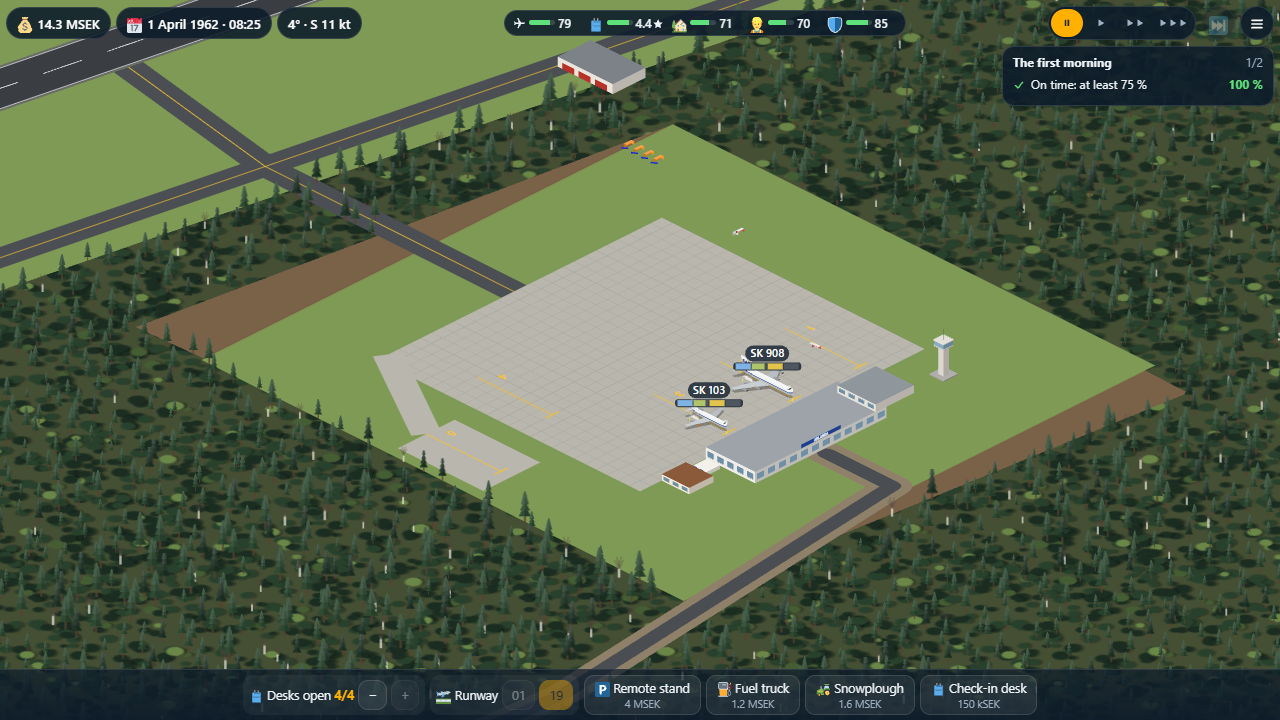
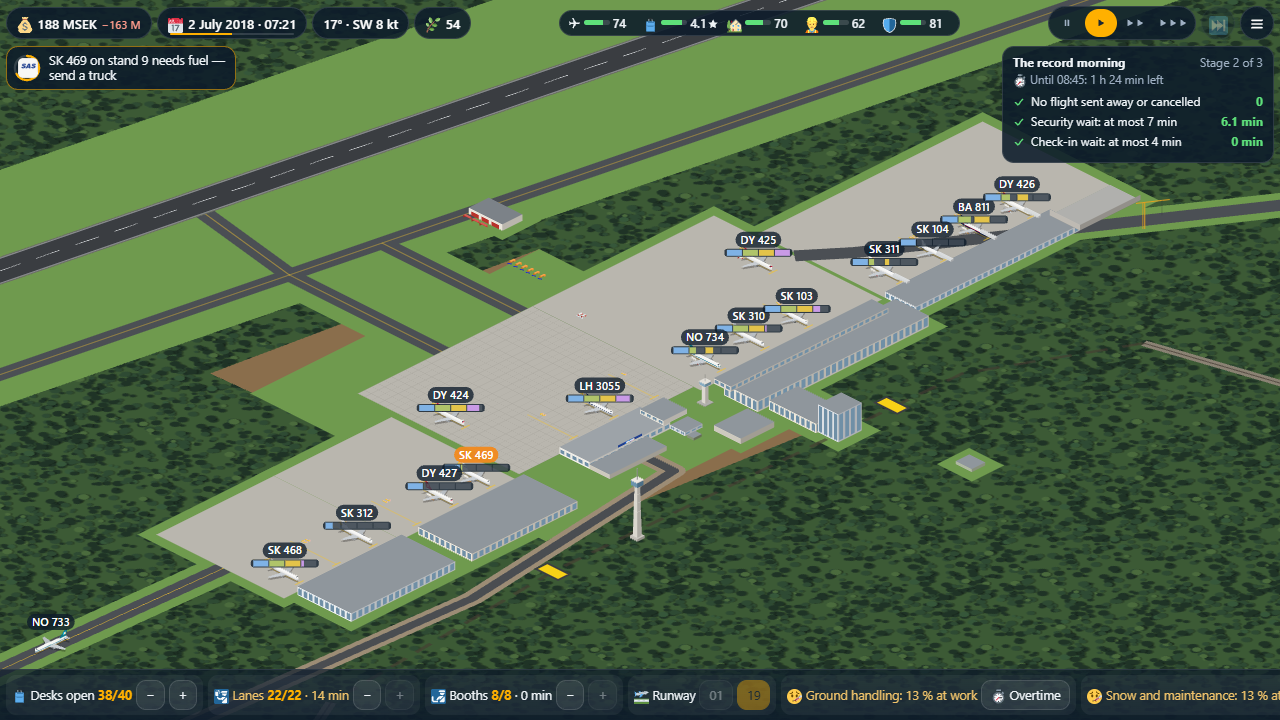
Arlanda Rising, session 7 done: the forest cleared under the later aprons, runways 2 and 3, taxiways 2 and 3, the de-icing pads, Cargo City and the solar parks; a new screenshot of the record summer of 2018

diff --git a/arlanda-rising/render/map.js b/arlanda-rising/render/map.js
@@ -51,14 +51,17 @@ const MapView = (() => {
       runway: a.runways[0] || null, runway2: a.runways.find((r) => r.id === 'r2') || null, runway3: a.runways.find((r) => r.id === 'r3') || null,
       apron: a.stands.length > 0, items, p,
       planning: !!S.plan, lights: [], standMark: view.standMark,
-      ...clearings(a, items, ready || p('site', 'apron') >= 1)
+      ...clearings(a, items, ready || p('site', 'apron') >= 1, p)
     };
   }
 
   // the ground cleared of trees round what is built outside the site's first clearing: a remote stand's pad and its
-  // way to the apron, the plots of the buildings in data/layout.js (car parks, cafés…), the link from the taxiway
+  // way to the apron, the plots of the buildings in data/layout.js (car parks, cafés…), the link from the taxiway;
+  // from the jet age on the later aprons, runways 2 and 3 with their strips, taxiways 2 and 3, the de-icing pads,
+  // Cargo City's yard and the solar parks, each from the moment its work starts
   const PAD = 14;   // m of open ground round a plot
-  function clearings(a, items, apronDone) {
+  const STRIP_HALF = 120;   // m: half the cleared strip of runways 2 and 3, as render/airport.js draws it
+  function clearings(a, items, apronDone, p) {
     const pads = [], ways = [];
     if (apronDone) {
       const T = LAYOUT.taxi, a = Ground.rwPoint(T.apronLink.s, T.offset), b = Ground.rwPoint(T.apronOut.s, T.offset);
@@ -74,10 +77,30 @@ const MapView = (() => {
       pads.push([q.x - 80 - PAD, q.y - 34 - PAD, q.x + 8 + PAD, q.y + 34 + PAD]);
       if (!st.pad) ways.push({ pts: AirportArt.remoteWay(i), d: 10 + PAD });
     });
+    const plot = (b) => pads.push([b[0] - PAD, b[1] - PAD, b[2] + PAD, b[3] + PAD]);
+    const started = (pid) => { const pr = a.projects[pid]; return !!pr && Object.keys(pr.stages).some((s) => pr.stages[s].p > 0); };
     for (const k in items) {
       const L = LAYOUT[k];
-      if (L && L.box) pads.push([L.box[0] - PAD, L.box[1] - PAD, L.box[2] + PAD, L.box[3] + PAD]);
+      if (L && L.box) plot(L.box);
     }
+    for (const pid in a.projects) {
+      const L = LAYOUT[pid];
+      if (L && L.box && !items[pid] && started(pid)) plot(L.box);
+    }
+    for (const [key, pid, sid] of AirportArt.APRONS) {
+      const B = LAYOUT[key];
+      if (p(pid, sid) > 0) plot([B.x0, B.y0, B.x1, B.y1]);
+    }
+    const R2 = LAYOUT.runway2, s2 = p('runway2', 'strip');
+    if (s2 > 0) ways.push({ pts: [R2.from, [R2.from[0] + (R2.to[0] - R2.from[0]) * s2, R2.from[1] + (R2.to[1] - R2.from[1]) * s2]], d: STRIP_HALF + PAD });
+    const R3 = LAYOUT.runway3, s3 = items.runway3 ? 1 : p('runway3', 'strip');
+    if (s3 > 0) ways.push({ pts: [R3.from, R3.to], d: STRIP_HALF * s3 + PAD });
+    if (p('apron2', 'pave') >= 1) ways.push({ pts: LAYOUT.taxi2.slice(0, a.runways.some((r) => r.id === 'r2') ? 4 : 2), d: LAYOUT.taxi.w / 2 + PAD });
+    const t3 = items.bridges ? 1 : p('bridges', 'taxi');
+    if (t3 > 0) ways.push({ pts: polyPart(LAYOUT.taxi3, t3), d: LAYOUT.taxi.w / 2 + PAD });
+    LAYOUT.deicePads.forEach((b, i) => { if (items.deicePad || p('deicePads', i === 0 ? 'south' : 'r3') > 0) plot(b); });
+    if (items.cargoCity || p('cargoCity', 'halls') > 0) { const b = LAYOUT.cargoCity.box; plot([b[0] - 20, b[1] - 30, b[2] + 20, b[3]]); }
+    for (let i = 0; i < Math.min(2, items.solar || 0); i++) plot(LAYOUT.solar[i]);
     return { pads, ways };
   }
 

diff --git a/arlanda-rising/render/airport.js b/arlanda-rising/render/airport.js
@@ -8,6 +8,8 @@
 
 const AirportArt = (() => {
   const RW = LAYOUT.runway1, TX = LAYOUT.taxi;
+  // the aprons after the first: their plot in LAYOUT, the project and its stage that pave them
+  const APRONS = [['apron2', 'apron2', 'pave'], ['apron3', 'domTerminal', 'apron'], ['apron4', 'terminal2', 'gates'], ['apron5', 'pierF', 'apron'], ['apron6', 'pier2040', 'gates']];
   const rp = (s, t) => Ground.rwPoint(s, t);
 
   // a stand's place on the map: the apron's in order, then the remote slots
@@ -111,7 +113,7 @@ const AirportArt = (() => {
     runway2(c, sc);
     runway3(c, sc);
     // the jet apron and the domestic apron, as far as they are paved
-    for (const [key, pid, sid] of [['apron2', 'apron2', 'pave'], ['apron3', 'domTerminal', 'apron'], ['apron4', 'terminal2', 'gates'], ['apron5', 'pierF', 'apron'], ['apron6', 'pier2040', 'gates']]) {
+    for (const [key, pid, sid] of APRONS) {
       const q = sc.p(pid, sid);
       if (q <= 0) continue;
       const B = LAYOUT[key];
@@ -521,5 +523,5 @@ const AirportArt = (() => {
     }
   }
 
-  return { flat, objects, standPos, standIndex, standEntry, remoteWay };
+  return { flat, objects, standPos, standIndex, standEntry, remoteWay, APRONS };
 })();

diff --git a/arlanda-rising/sw.js b/arlanda-rising/sw.js
@@ -16,7 +16,7 @@
 // e.g. "/ivan/lift-logic/offline.<version>": every app on the shared origin keeps its own and
 // deletes only its own old ones.
 
-const VERSION = "87eae11e2c32";
+const VERSION = "93d6d1a566fb";
 // Paths relative to this folder; './' is the page itself, ?v=N as the page links them.
 const FILES = [
   "./",
@@ -80,10 +80,10 @@ const FILES = [
   "manifest.webmanifest?v=1",
   "progress.js?v=2",
   "render/aircraft.js?v=6",
-  "render/airport.js?v=7",
+  "render/airport.js?v=8",
   "render/ground.js?v=2",
   "render/iso.js?v=1",
-  "render/map.js?v=5",
+  "render/map.js?v=6",
   "render/palette.js?v=1",
   "render/sky.js?v=1",
   "render/terminal.js?v=2",

diff --git a/arlanda-rising/index.html b/arlanda-rising/index.html
@@ -153,11 +153,11 @@
 <script src="render/palette.js?v=1"></script>
 <script src="render/iso.js?v=1"></script>
 <script src="render/ground.js?v=2"></script>
-<script src="render/airport.js?v=7"></script>
+<script src="render/airport.js?v=8"></script>
 <script src="render/aircraft.js?v=6"></script>
 <script src="render/traffic.js?v=4"></script>
 <script src="render/sky.js?v=1"></script>
-<script src="render/map.js?v=5"></script>
+<script src="render/map.js?v=6"></script>
 <script src="render/terminal.js?v=2"></script>
 <script src="ui/text.js?v=6"></script>
 <script src="ui/screens.js?v=3"></script>

diff --git a/sw.js b/sw.js
@@ -16,7 +16,7 @@
 // e.g. "/ivan/lift-logic/offline.<version>": every app on the shared origin keeps its own and
 // deletes only its own old ones.
 
-const VERSION = "3110b8c8bfec";
+const VERSION = "888fec8bded9";
 // Paths relative to this folder; './' is the page itself, ?v=N as the page links them.
 const FILES = [
   "./",

diff --git a/arlanda-rising/SPEC.md b/arlanda-rising/SPEC.md
@@ -2,7 +2,7 @@
 
 Developer/agent spec for the `arlanda-rising` project. Repo-wide conventions live in the root `SPEC.md` and `AGENTS.md`; this file only describes this game. Keep it in sync with the code.
 
-> **Status: sessions 1–6 of the build order done — all eight chapters (1958–2040, 88 missions) are playable end to end in a browser, on a phone and a desktop, in English, Russian and Swedish; installable and offline; Free Play; three Challenge Days; the cloud save through Google; in the gallery.** In code: the simulation (`sim/`) and its data (`data/`), the isometric map (`render/`), the screens (`ui/`), the flow and the autosave (`game.js`, `progress.js`), the cloud save (`core/save.js`, `core/cloud.js`, `supabase/schema.sql`), the translations, the icons, the manifest and the offline worker, and `tools/missions-check.js` (see "Testing and balancing"); what session 2 built is summed up in "The game in the browser (session 2)", what session 3 built in "People, systems, chapters 2–3, Free Play and the cloud (session 3)", what session 4 built in "The terminals, brands, the economy screens, chapter 4 and Challenge Days (session 4)", what session 5 built in "The border, two runways, de-icing, real estate, events, the green rating, chapters 5–6 (session 5)", what session 6 built in "The storm years and the future, chapters 7–8 (session 6)". Not yet: the terminal's desks, seating and arrivals in the Terminal view, adverts, contracts with promises and penalties, the hints 💡 1–3 and the Debrief, the Archive and the Album, Keep the shift going, wildlife as a domain of its own (birds and moose come only as random events), the arrivals' passport control. Settled with the user: the name *Arlanda Rising* (folder `arlanda-rising`); **real airlines with their emblems and real brands** (Swedavia, Arlanda Express, Flygbussarna and the like); **isometric** graphics; **short missions** (at most about 10 minutes, split into stages, never lost when interrupted) for a child with a 40-minute phone limit; **at least 20 hours** of campaign; **one airport through the whole campaign that grows by the historical master plan** — freedom within each mission's frame, full freedom only in small things (adverts, banners, which airlines to court), the architecture and the look of the buildings follow the historical checkpoints (see "The master plan"). The settled decisions are listed at the end ("Decisions").
+> **Status: sessions 1–7 of the build order done — all eight chapters (1958–2040, 88 missions) are playable end to end in a browser, on a phone and a desktop, in English, Russian and Swedish; installable and offline; Free Play; three Challenge Days; the cloud save through Google; in the gallery.** In code: the simulation (`sim/`) and its data (`data/`), the isometric map (`render/`), the screens (`ui/`), the flow and the autosave (`game.js`, `progress.js`), the cloud save (`core/save.js`, `core/cloud.js`, `supabase/schema.sql`), the translations, the icons, the manifest and the offline worker, and `tools/missions-check.js` (see "Testing and balancing"); what session 2 built is summed up in "The game in the browser (session 2)", what session 3 built in "People, systems, chapters 2–3, Free Play and the cloud (session 3)", what session 4 built in "The terminals, brands, the economy screens, chapter 4 and Challenge Days (session 4)", what session 5 built in "The border, two runways, de-icing, real estate, events, the green rating, chapters 5–6 (session 5)", what session 6 built in "The storm years and the future, chapters 7–8 (session 6)". Not yet: the terminal's desks, seating and arrivals in the Terminal view, adverts, contracts with promises and penalties, the hints 💡 1–3 and the Debrief, the Archive and the Album, Keep the shift going, wildlife as a domain of its own (birds and moose come only as random events), the arrivals' passport control. Settled with the user: the name *Arlanda Rising* (folder `arlanda-rising`); **real airlines with their emblems and real brands** (Swedavia, Arlanda Express, Flygbussarna and the like); **isometric** graphics; **short missions** (at most about 10 minutes, split into stages, never lost when interrupted) for a child with a 40-minute phone limit; **at least 20 hours** of campaign; **one airport through the whole campaign that grows by the historical master plan** — freedom within each mission's frame, full freedom only in small things (adverts, banners, which airlines to court), the architecture and the look of the buildings follow the historical checkpoints (see "The master plan"). The settled decisions are listed at the end ("Decisions").
 
 ## Idea
 
@@ -299,7 +299,7 @@ What `sim/` does today, with its numbers in `constants.js`; later sessions add t
 
 What `render/`, `ui/`, `game.js` and `progress.js` do today; the screens of "Screens" not listed here come with the later sessions.
 
-- **The map** (`render/`): isometric 2:1, north to the upper right, the viewer in the south-east; one world in metres (`data/layout.js`), drawn live every frame with no cached layer but the forest's texture. The forest is a texture from afar and single pines, spruces and birches from `ZOOM_TREES` on (bare birches in winter and April); fields, lakes (ice in winter), granite, Märsta's red and white houses and its church, the E4. The site project shows as it goes: the runway strip cleared from the south, the bog drying, the apron plot cleared from the west, the road in as gravel. Runway 1 with its markings, designators, snow (swept behind the convoy), cables being laid, edge, threshold and approach lights; the parallel taxiway and its links; the apron with its stands (lit green or red while a stand is picked, red when closed) and the remote stands bought later, each paved on its own (`LAYOUT.remote`) with a paved way straight to the apron's edge along the line the aircraft taxi. No tree stands on what is built: the strip, the road and the link from the taxiway to the apron keep a corridor wide enough for the trees in front not to stand over them, and a remote stand, its way and every building with a plot in `data/layout.js` (the car parks east of the road in, by the bus stop; the café…) clear the forest round them (`render/map.js` `clearings`). The trees are drawn whole, the crown's tip included. Buildings rise by their stages: the terminal's slab and walls, the waiting room, the kiosk; the tower's foundations, shaft, cab and antenna; cranes over the stages being built. Aircraft are drawn to scale from `data/aircraft.js` with the shape of each type (`AIRCRAFT_SHAPE`: sweep, jet pods or propellers, rear engines), a layered fuselage that shows the cheatline, the fin with the airline's emblem (`art/emblems.js`, the livery of the year from `data/airlines.js`; made smaller where the fin is narrower than the letters), a shadow that fades as they climb, and their lights. `render/traffic.js` turns the sim's times into motion, drawn at the sim's clock plus the part of the next step already run (`Sim.clockNow`), so the aircraft and the vehicles move every frame and not once a step: the approach (a holding circle when the runway is not free), the flare and the rollout, the taxi to the stand (on runway 1 the arrivals come onto the apron by the middle link and the departures leave by their own link at its north end, `LAYOUT.taxi.apronOut`, along a lane `outLane` m west of the arrivals' — one way in, one way out, never head-on), the turnaround (stairs, passengers walking, catering, baggage carts, the fuel truck from its depot and back, the tug), the pushback, the taxi out, the take-off roll and the climb; the plough convoy in echelon; trucks and ploughs at their depots. Over each aircraft its flight number and, at a stand, a little Gantt bar (off · services · fuel · boarding). The light follows `Calendar.sunElevation`: dawn and dusk tint, the dark, fog, falling snow, then the lamps glowing through the dark (sodium floodlights, lit windows, the tower's cab, beacons).
+- **The map** (`render/`): isometric 2:1, north to the upper right, the viewer in the south-east; one world in metres (`data/layout.js`), drawn live every frame with no cached layer but the forest's texture. The forest is a texture from afar and single pines, spruces and birches from `ZOOM_TREES` on (bare birches in winter and April); fields, lakes (ice in winter), granite, Märsta's red and white houses and its church, the E4. The site project shows as it goes: the runway strip cleared from the south, the bog drying, the apron plot cleared from the west, the road in as gravel. Runway 1 with its markings, designators, snow (swept behind the convoy), cables being laid, edge, threshold and approach lights; the parallel taxiway and its links; the apron with its stands (lit green or red while a stand is picked, red when closed) and the remote stands bought later, each paved on its own (`LAYOUT.remote`) with a paved way straight to the apron's edge along the line the aircraft taxi. No tree stands on what is built: the strip, the road and the link from the taxiway to the apron keep a corridor wide enough for the trees in front not to stand over them, and a remote stand, its way and every building with a plot in `data/layout.js` (the car parks east of the road in, by the bus stop; the café…) clear the forest round them (`render/map.js` `clearings`); so do, from the moment their work starts, the later aprons (`AirportArt.APRONS`), runways 2 and 3 with their strips, taxiways 2 and 3, the de-icing pads, Cargo City's yard and the solar parks. The trees are drawn whole, the crown's tip included. Buildings rise by their stages: the terminal's slab and walls, the waiting room, the kiosk; the tower's foundations, shaft, cab and antenna; cranes over the stages being built. Aircraft are drawn to scale from `data/aircraft.js` with the shape of each type (`AIRCRAFT_SHAPE`: sweep, jet pods or propellers, rear engines), a layered fuselage that shows the cheatline, the fin with the airline's emblem (`art/emblems.js`, the livery of the year from `data/airlines.js`; made smaller where the fin is narrower than the letters), a shadow that fades as they climb, and their lights. `render/traffic.js` turns the sim's times into motion, drawn at the sim's clock plus the part of the next step already run (`Sim.clockNow`), so the aircraft and the vehicles move every frame and not once a step: the approach (a holding circle when the runway is not free), the flare and the rollout, the taxi to the stand (on runway 1 the arrivals come onto the apron by the middle link and the departures leave by their own link at its north end, `LAYOUT.taxi.apronOut`, along a lane `outLane` m west of the arrivals' — one way in, one way out, never head-on), the turnaround (stairs, passengers walking, catering, baggage carts, the fuel truck from its depot and back, the tug), the pushback, the taxi out, the take-off roll and the climb; the plough convoy in echelon; trucks and ploughs at their depots. Over each aircraft its flight number and, at a stand, a little Gantt bar (off · services · fuel · boarding). The light follows `Calendar.sunElevation`: dawn and dusk tint, the dark, fog, falling snow, then the lamps glowing through the dark (sodium floodlights, lit windows, the tower's cab, beacons).
 - **Five small additions to the sim for the map** (none changes a result): a flight keeps `rdir` (the runway direction it used), `airborne` (when it rolled) and `divertedAt`; a surface keeps `ploughFrom`; a turnaround keeps `fuelFrom`.
 - **Play**: the HUD (money, the date and clock, the weather, the five meters, ⏸ ▶ ▶▶ ▶▶▶, Skip, pause), the stage's goals live (in the plan panel in plan time), the task tray (a ring for each deadline; a tap does the obvious, **Pick** or a drag chooses the stand on the map), the toolbar (desks open, ploughs, the runway direction when calm, the small builds with a second tap to confirm), the plan panel (each project's stages with Start / Fast, progress and what they wait for, its options, cash / loan / the owner's grant, the fee level, loans), the decision card (the option's effects worked out from its data: money, days, a crew, the meters), the flight card. Panels below the HUD start under its real height (`--hudH`), so a phone in portrait works too; there the money shows short and without its currency (`1.2 M`, `45 k`, `1,2 млн`) in a chip of one width, so the first row does not jump as the sum changes. Every stage starts at ▶, whatever speed the stage before ran at (⏸ and back within a stage keeps the speed). Under the money the mission's result so far (`Missions.result()`: its income less its costs, green or red), so the player sees whether the airport earns or spends; under the date a line of how far the stage has gone (the clock between its start and end, or its days); the goals' box of an ops stage says the stage's end and the time left ("Until 10:00: 1 h 45 min left"), and a goal of the whole mission (1-8's profit) is shown live under the stage's goals and in the plan panel (`Text.missionGoals`, from `Missions.liveTotal()`). The toolbar of plan time shows the shops' places taken of SHOP_MAX (a kiosk ½, a café 1, a restaurant 0.6, a duty-free shop 1.2, those being built included) and the car parks' share of the drivers, each shop and car park button with how many there are (×2); once the room is full the button says so and `Airport.buy` refuses one more (it would earn nothing).
 - **Help**: Kaj's live hints (`ui/hints.js`, at most one per `HINT_GAP`, each `HINT_REPEAT` times; Settings: Full / Short / Off) and the guiding finger in `GUIDED_MISSIONS` until the player has acted twice. The mission hints 💡 1–3, the concept cards and the Debrief come later.
@@ -671,7 +671,7 @@ Each shows a banner and marks the run as cheated (no stars, no 🏅, no records)
   - A mission at once: `Game.startMission('1-5', 'medium'); Game.play(); Game.speed = 3`; a moment of it: `Cam.centerOn(800, 1250, 3)`, `S.clock = 22 * 60` (the night), `FlightCard.open(S.ops.flights[0])`.
   - The campaign played by the reference strategies through the game's own flow (a few seconds): for each mission `Game.startMission(id, d)`, then `Strategy.act(r); Sim.step()` in a loop (`Missions.next()` on `stageDone`) with `GameEvents.mute(true)`, then `Game.missionEnd()`.
   - The resume: `Game.save(); location.reload()`, then `Game.continueMission()` and compare `S.clock` and `S.money`.
-  - The screenshot: 1280 × 720, the campaign played to Opening Day, `S.clock` 08:25 by the reference strategy, `Cam.centerOn(760, 1240, 1.55)`.
+  - The screenshot: 1280 × 720, `Game.startMission('6-11', 'medium')` (the record summer of 2018) played by its reference strategy into stage 2, *The record morning*, to about 07:20, `Cam.centerOn(800, 1380, 0.95)`.
 
 ## Files
 
@@ -742,7 +742,7 @@ arlanda-rising/
 4. **Terminal view, brands and the economy screens** *(done)*: passenger flow, real shops and ground transport, finance with payback and NPV, offers, airlines' tempers; chapter 4, Challenge Days.
 5. **Chapters 5–6** *(done)*: border, security, parallel runways, de-icing, real estate, green rating and the permit, events.
 6. **Chapters 7–8** *(done)*: crises, fallback readiness, the future tech, the final exam.
-7. Translations, icons, READMEs, screenshot (from session 2 on, kept up to date with every later one; done for chapters 1–8).
+7. **Translations, icons, READMEs, screenshot** *(done)*: kept up to date from session 2 on; checked for chapters 1–8 (every text translated, the icons built, the READMEs telling all eight chapters), and the screenshot taken anew on the airport of 2018.
 
 ## Decisions
 
